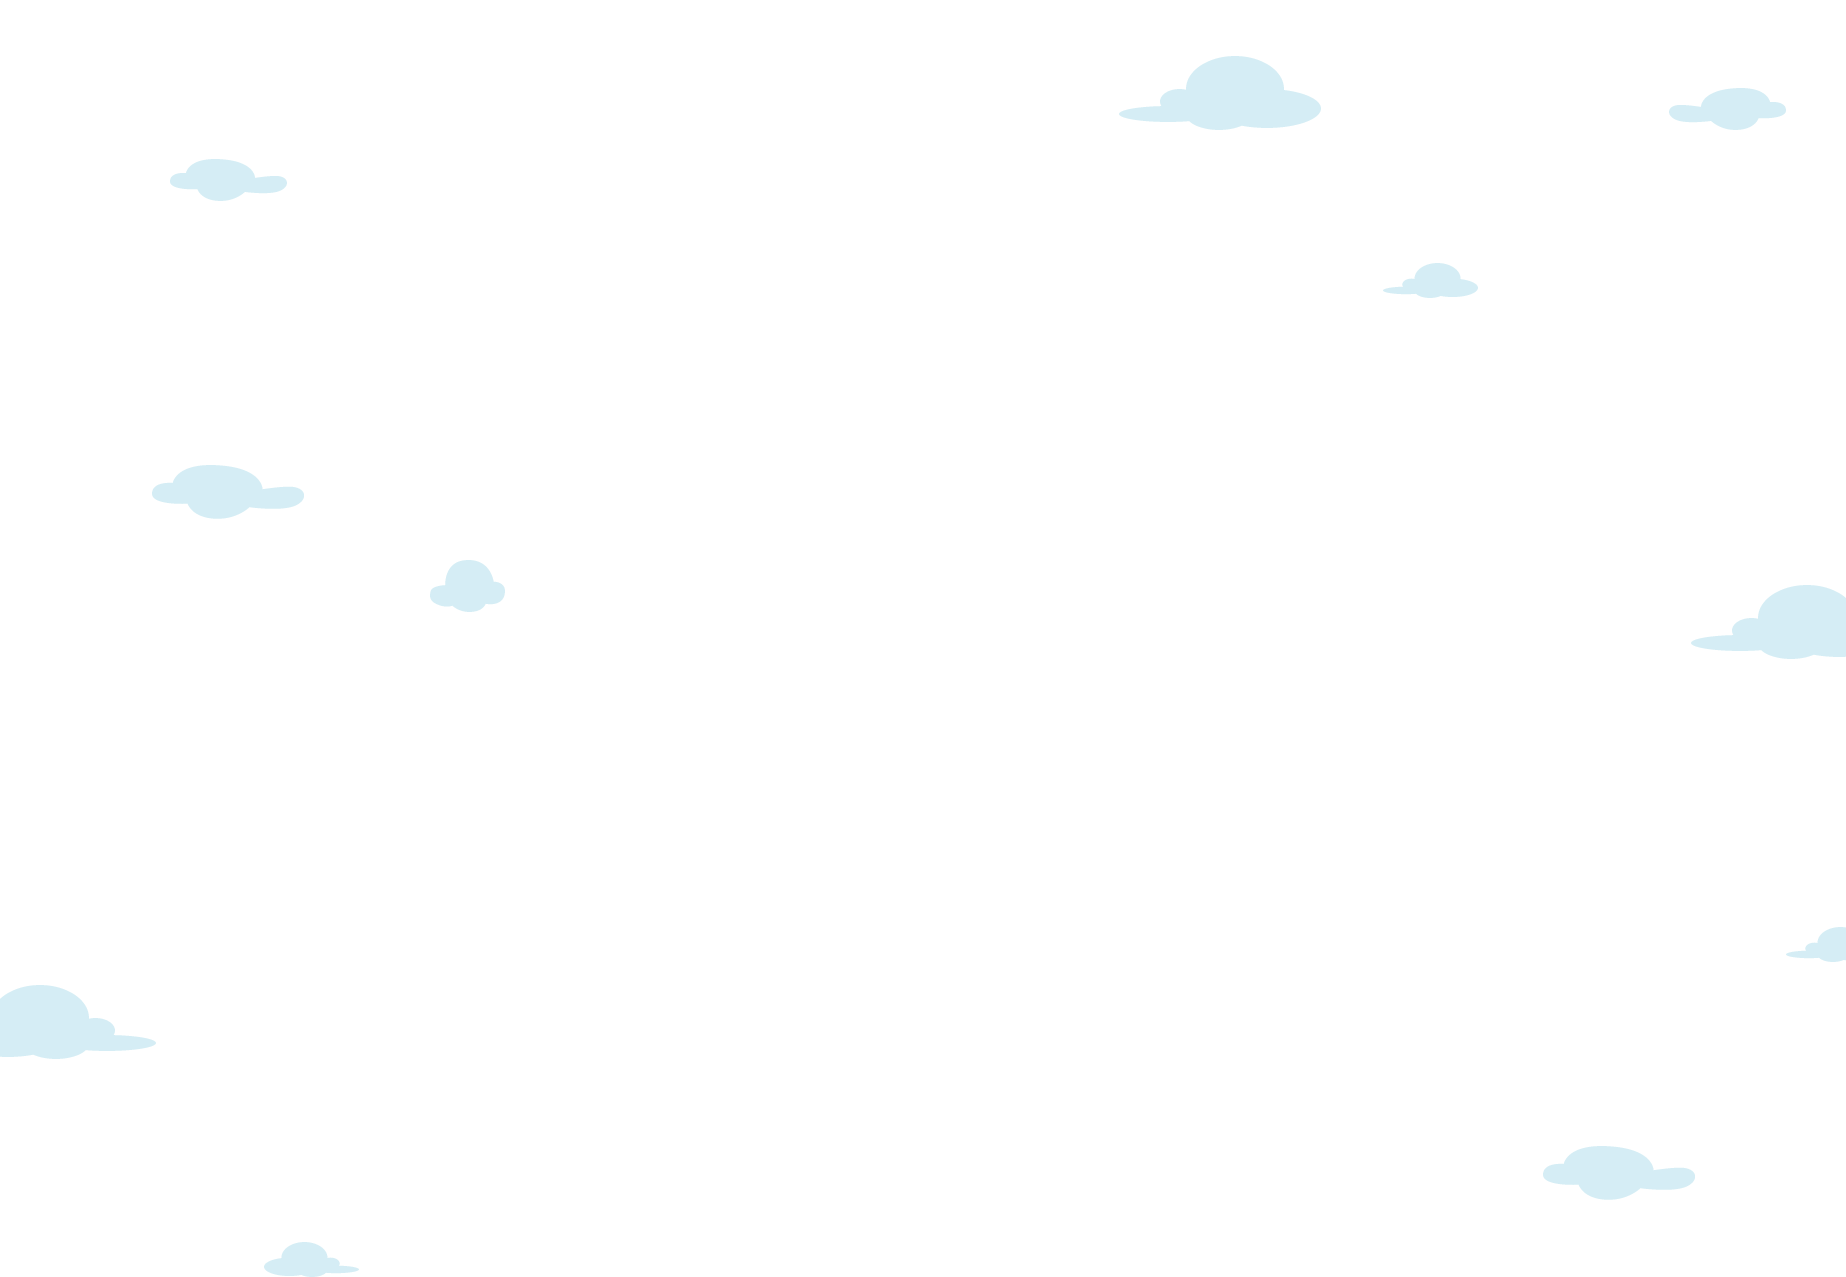
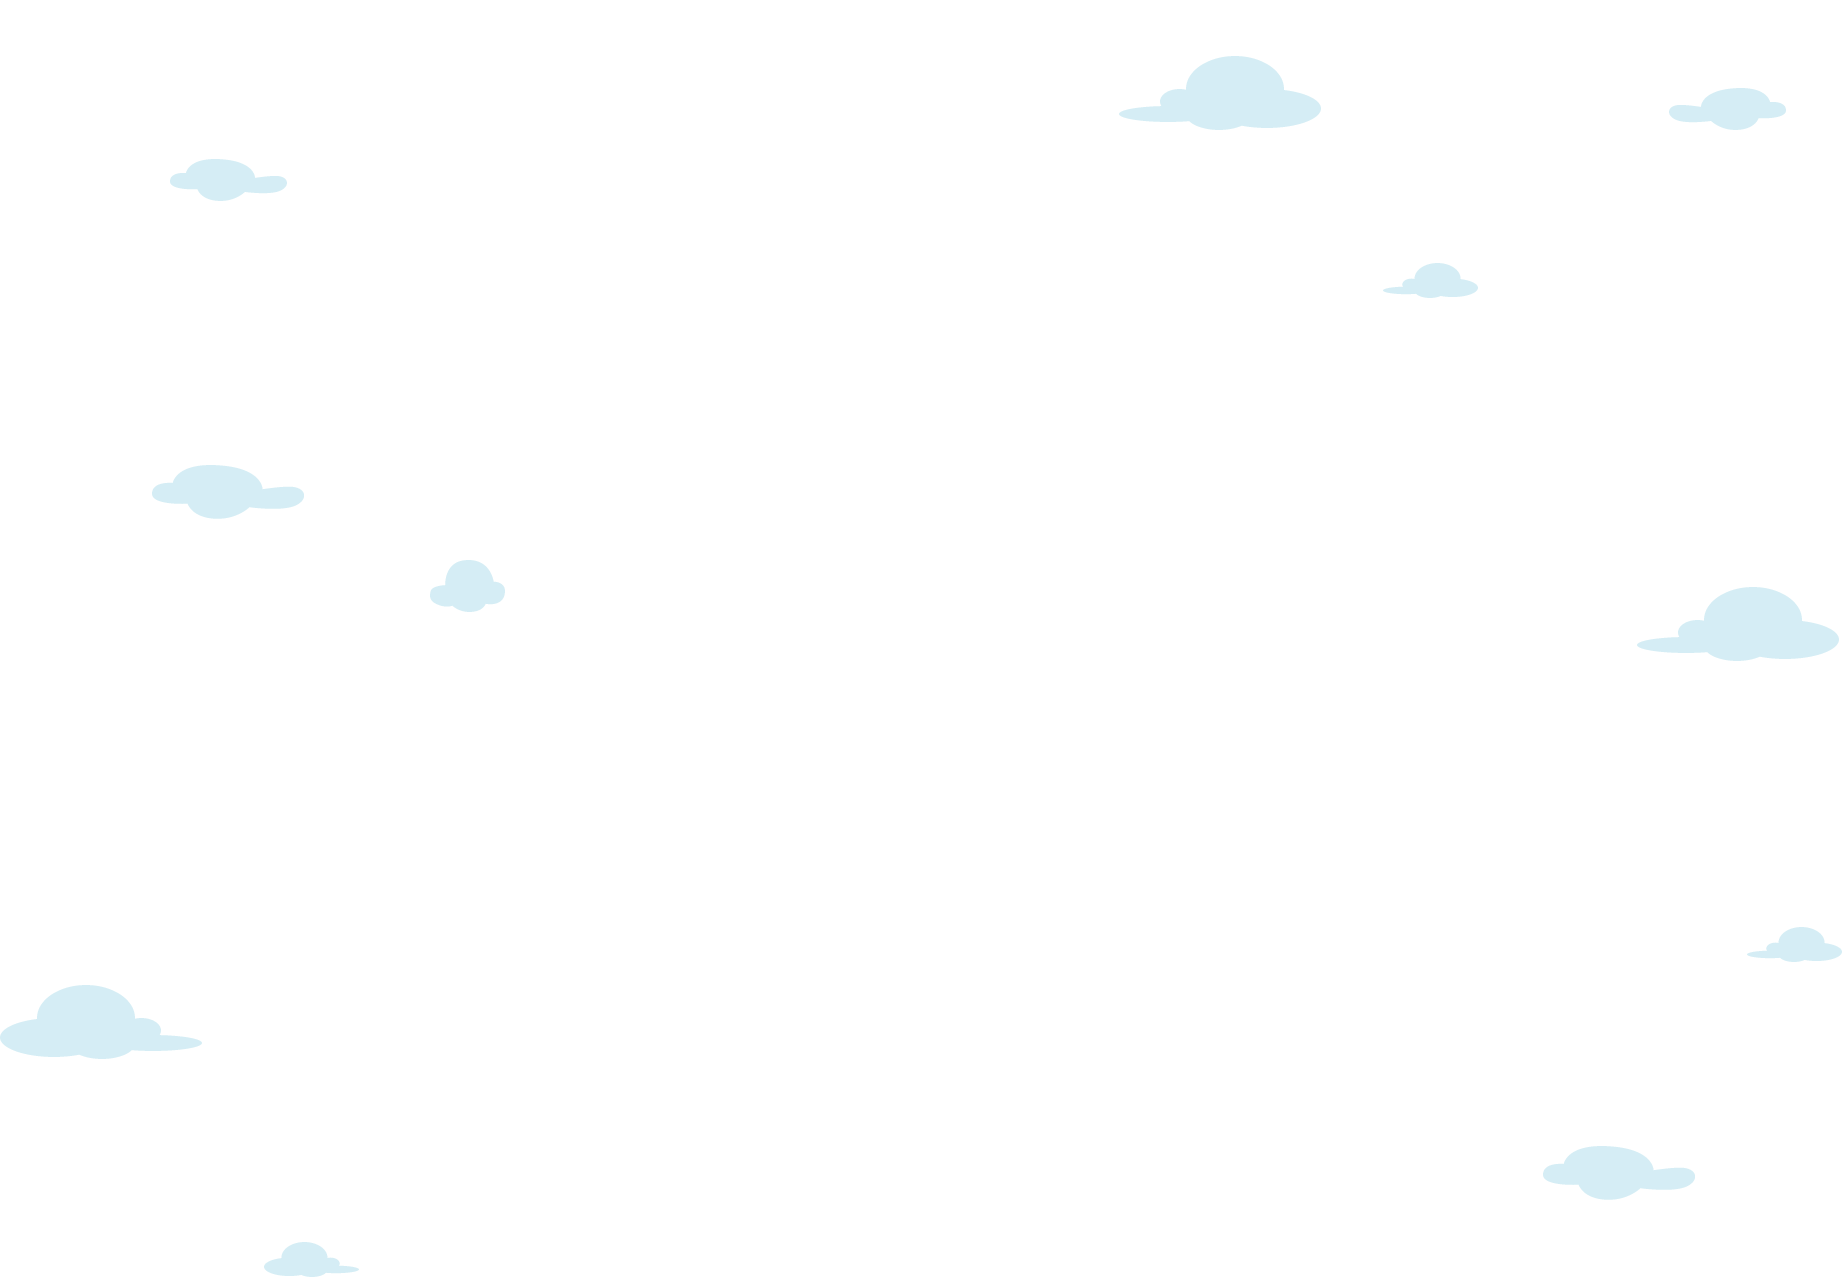
Ajuste do background de nuves na pagina festa do pijama

Changed region(s): [[0.8954, 0.4581, 1.0, 0.5192], [0.0, 0.7635, 0.1235, 0.8246], [0.9572, 0.7024, 1.0, 0.7635]]

diff --git a/js/main.js b/js/main.js
@@ -9,9 +9,11 @@ $(document).ready(function() {
     if (currentScroll > previousScroll) {
       y += 5;
       $('.backNuvem').css("background-position", "0px " + y + "px");
+	  $('.back_pijama').css("background-position", "25px " + y + "px");
     } else {
       y -= 5;
       $('.backNuvem').css("background-position", "0px " + y + "px");
+	  $('.back_pijama').css("background-position", "25px " + y + "px");
     }
     previousScroll = currentScroll;
 

diff --git a/festa-pijama.php b/festa-pijama.php
@@ -1,6 +1,6 @@
 <?php require "header.php" ?>
 
-<section id="produtos" class="bg-color-azul bg-nuvem-festa-pijama back_pijama">
+<section id="produtos" class="bg-color-azul bg-nuvem-festa-pijama back_pijama" style="background-position: 25px 75px">
     <div class="container">
 
         <div class="row espacamento_top">
